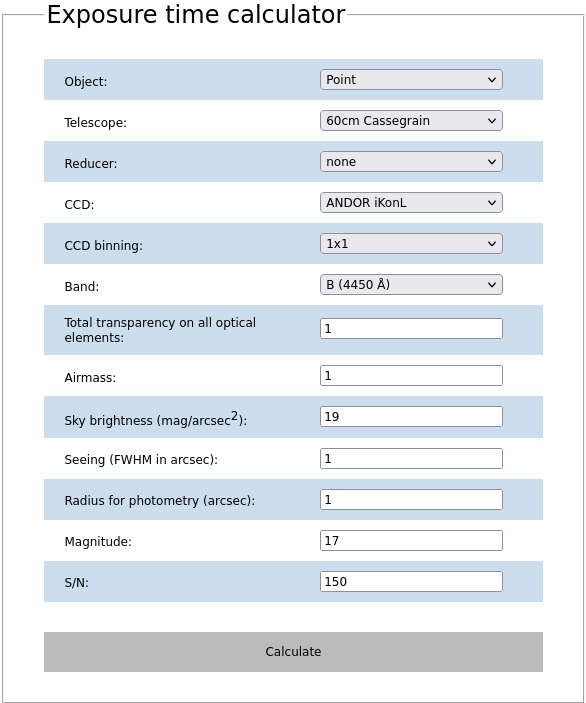
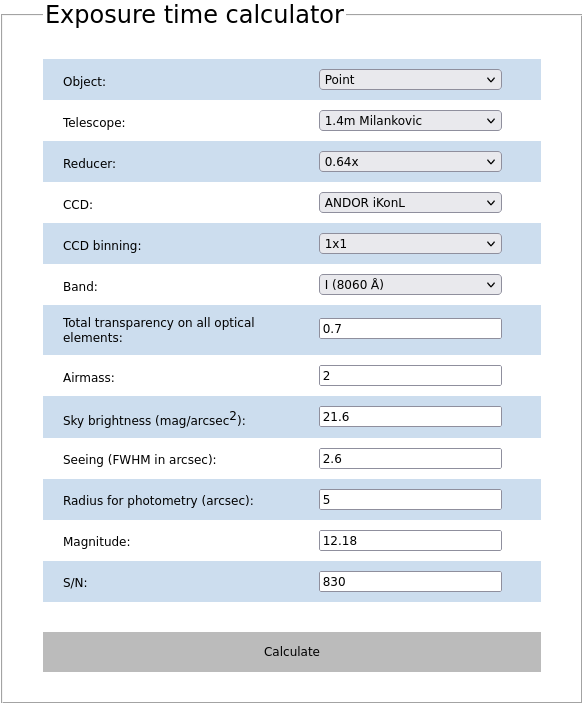
Add 0.64x reducer option and save images without alpha channel

diff --git a/index.html b/index.html
@@ -97,6 +97,7 @@
               <label for="reducer">Reducer:</label>
               <select class="reducer" name="reducer">
                 <option value="1">none</option>
+                <option value="0.64">0.64x</option>
                 <option value="0.5">0.5x</option>
                 <option value="custom" class="customReducer">Custom reducer</option>
               </select>
@@ -200,7 +201,7 @@
               <p>Dark current: <span class="s_dc bold">0</span> e<sup>-</sup>/s/pix</p>
               <p>Read out noise: <span class="s_ro bold">0</span> e<sup>-</sup>/pix</p>
               <p>Number of pixels: <span class="n_pix bold">0</span> pix</p>
-              <p class="ekspozicija bold">Exposure time: t = <span>0</span></p>
+              <p class="ekspozicija bold">Exposure time: <span>0</span></p>
               <p class="showGraph"><input type="checkbox" name="showGraph"> Show graph</p>
             </section>
 
